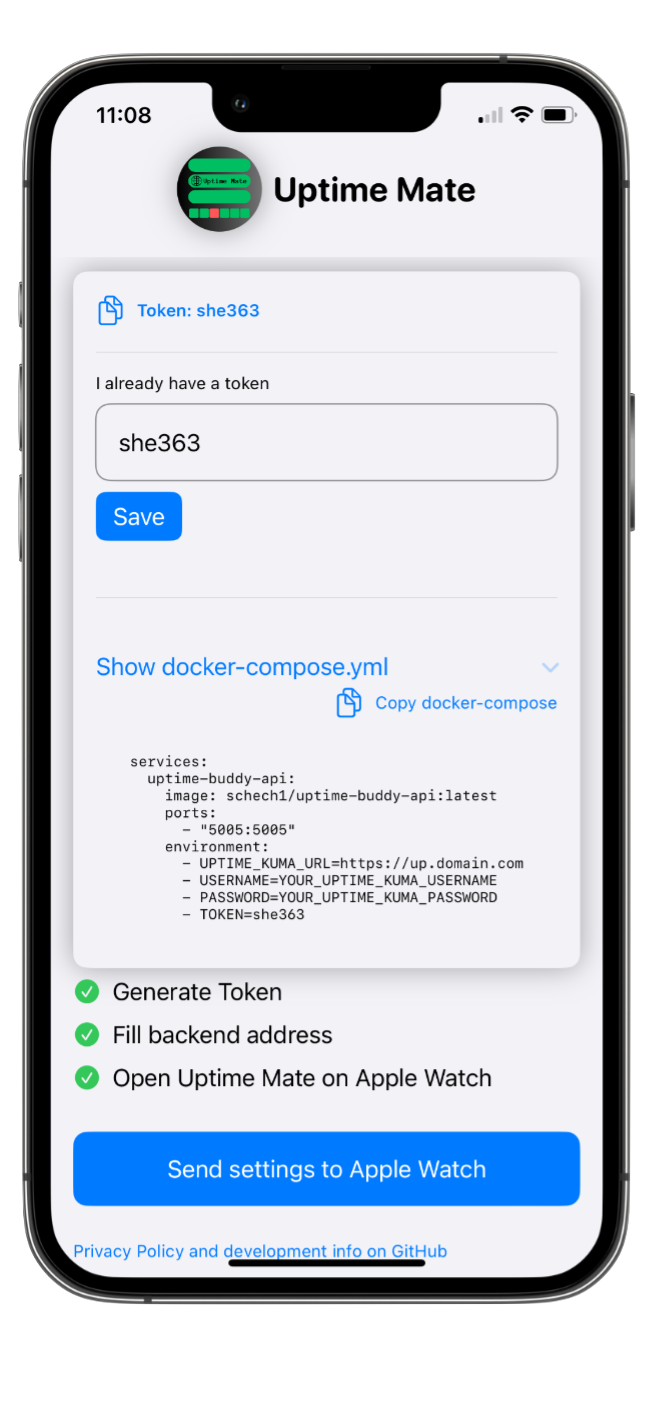
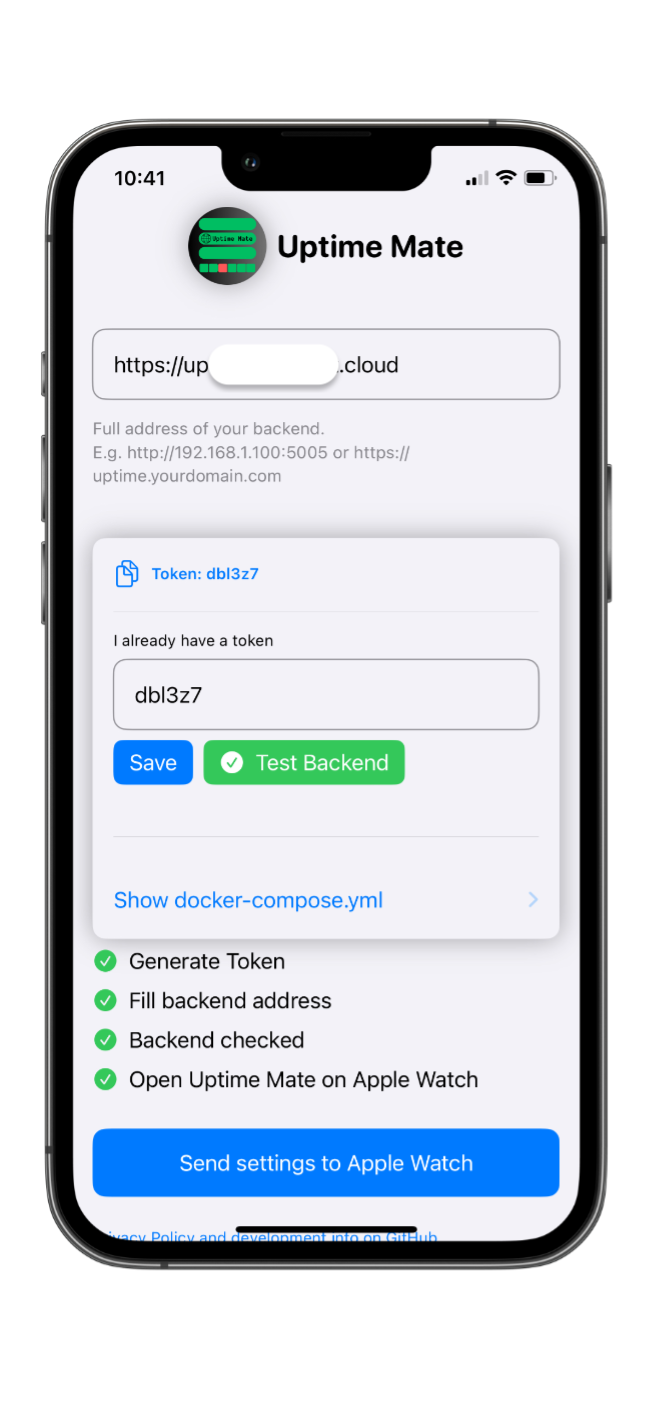
updated readme

diff --git a/README.md b/README.md
@@ -34,6 +34,7 @@ Uptime Mate, requires a lightweight docker backend to run.
 
 ## Backend Compatibility
 **Be sure to pull the latest docker image**
+
 The current version (1.0.4) in the App Store is compatible with `schech1/uptime-buddy-api:latest` 
 
 
@@ -51,6 +52,7 @@ Follow the these steps to configure Uptime Mate:
 
 - Generate the token
 - Enter your backend address (Address where you host this container, including the port (e.g.http://your-server-ip:5005))
+- Test the backend
 - Copy the generated token into your `docker-compose.yml` and deploy it.
 - Send the setting to the Apple Watch. It will display your monitors from Uptime Kuma in the Apple Watch app
 - Check out the Watch Face complications
